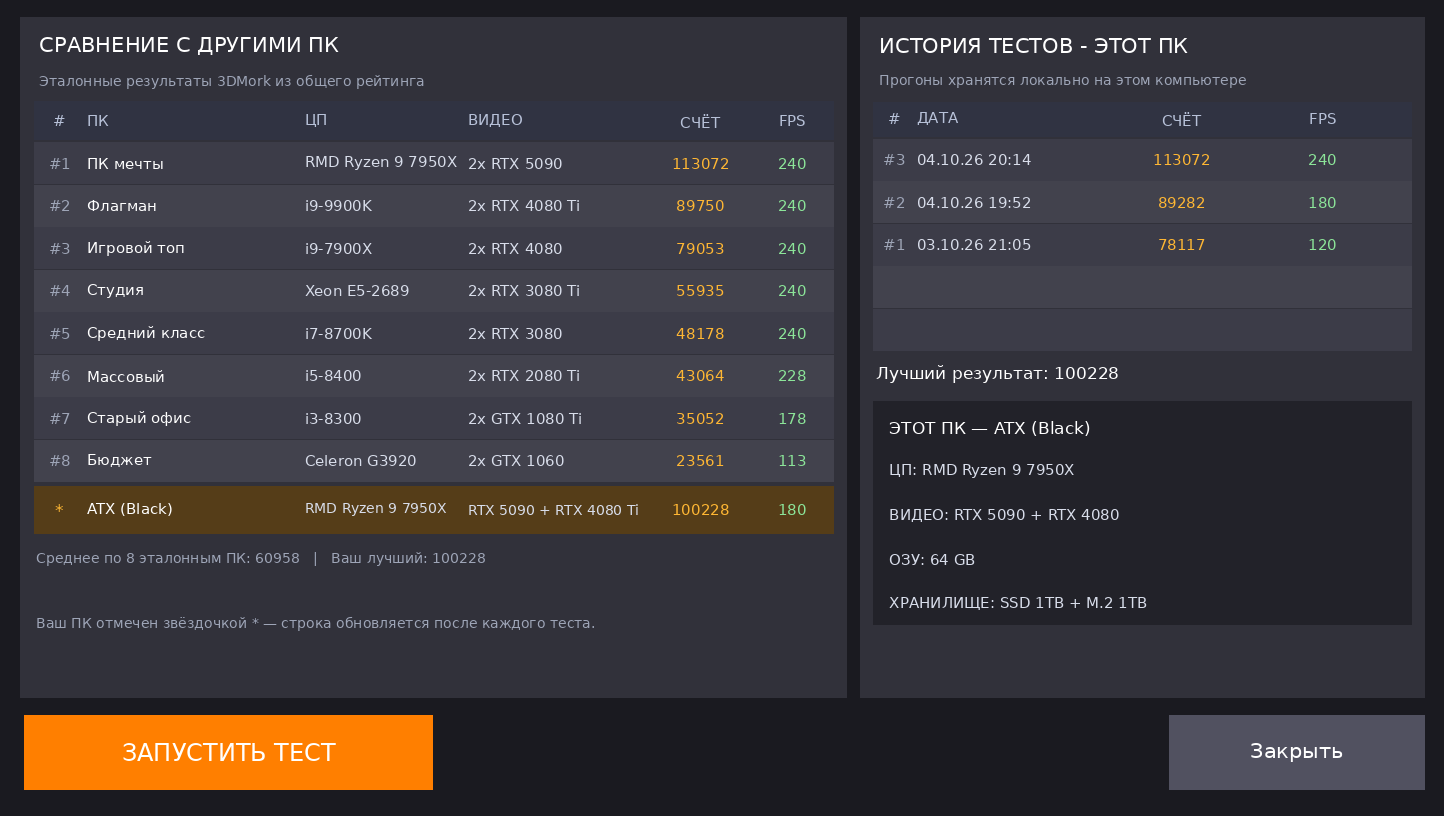
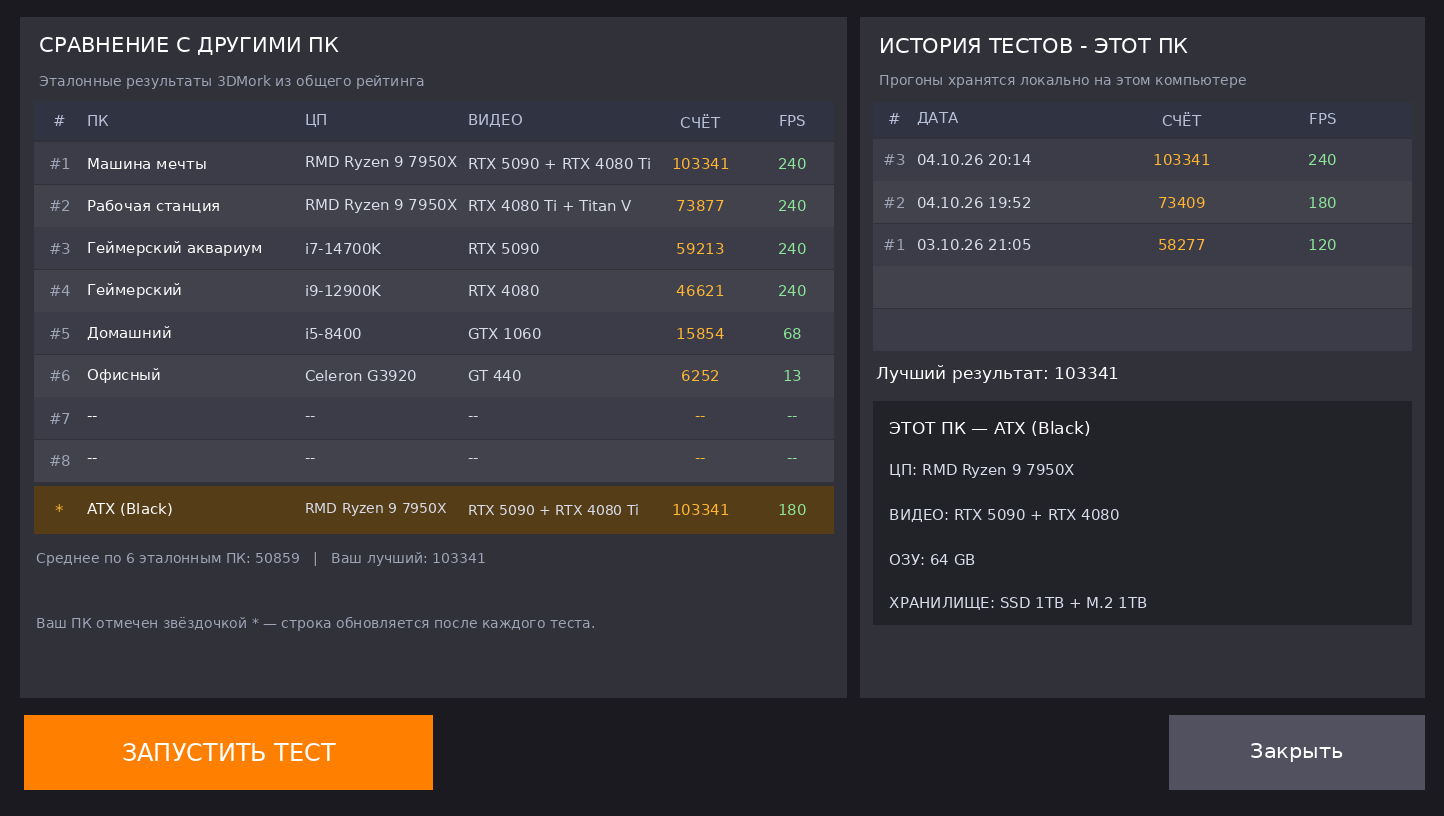
3DMork: таблица готовых ПК — 6 реальных сборок из магазина (Dream, Workstation, Aquarium, Gaming, Home, Office)
- Leaderboard уменьшен с 8 до 6 строк, каждая строка — точный товар из Shop.asset
  (усечённые до 2 планок/2 накопителей, видеокарты как продаётся: 1 или 2, смешанные)
  Dream PC (RTX 5090 + 4080 Ti, 2x64GB RGB, 16TB+M.2 8TB) на первом месте,
  дальше Workstation, Aquarium, Gaming, Home, Office.
- Синхронизированы tools/3dmork_builds.py, tools/3dmork_score_model.py,
  префаб 3DMork (6 рядов) и превью docs.
- Тесты обновлены под 6 строк и разрешают смешанные/одиночные GPU.
- FormulaVersion 2->3 чтобы сбросить старую историю.

diff --git a/tools/3dmork_builds.py b/tools/3dmork_builds.py
@@ -1,11 +1,11 @@
 #!/usr/bin/env python3
-"""Эталонные сборки 3DMork из настоящих деталей игры.
+"""Эталонные сборки 3DMork — теперь это реальные готовые ПК из магазина.
 
-Каждая строка - реальная сборка из деталей, которые есть в игре
-(Assets/Resources/components). Детали подобраны так, чтобы видеокарты,
-процессор, память и накопители соответствовали друг другу и шли по
-убыванию сверху вниз; сборка мечты берёт самую мощную деталь в каждой
-категории. Порядок строк - это и есть порядок таблицы сравнения.
+Каждая строка — готовая сборка из магазина (Ready PC) в усечённом виде:
+2 планки памяти, 2 накопителя (у Office — 1), видеокарты — как продаётся
+(1 или 2, одинаковые или разные). Детали берутся из тех же префабов, что
+и в игре, поэтому очки совпадают с прогоном купленного ПК. Порядок строк —
+по убыванию итогового счёта (Dream на первом месте).
 
 Запуск: python3 tools/3dmork_builds.py
 """
@@ -18,59 +18,53 @@ _spec = importlib.util.spec_from_file_location("model", os.path.join(ROOT, "tool
 model = importlib.util.module_from_spec(_spec)
 _spec.loader.exec_module(model)
 
-# Счёт деталей - из их префабов (tools/dump_hardware.py). У видеокарт
-# верхние строчки лежат в переопределениях вложенных префабов.
+# Счёт деталей - из их префабов (tools/dump_hardware.py).
 PART_SCORE = {
     "RTX5090": 13500, "RTX4080Ti": 11000, "RTX4080": 10000, "RTX3080Ti": 7000,
     "RTX3080": 6000, "RTX2080Ti": 5500, "GTX1080Ti": 4500, "GTX1060": 3000,
+    "GT440": 150, "Titan V": 5800,
     "RAM 64GB(RGB)": 12000, "RAM 64GB": 10000, "RAM 32GB(RGB)": 6000, "RAM 32GB": 5000,
     "RAM 16GB(RGB)": 5000, "RAM 16GB": 4500, "RAM 8GB": 3000, "RAM 4GB": 2000,
     "SSD 16TB": 9000, "SSD_M.2 8TB": 9000, "SSD 8TB": 8000, "SSD 4TB": 7000,
     "SSD_M.2 2TB": 7000, "SSD 2TB": 6000, "SSD_M.2 1TB": 6000, "SSD 1TB": 5000,
     "SSD_M.2 512GB": 5000, "SSD 512GB": 4000, "SSD_M.2 256GB": 4500,
-    "HDD 2TB": 1500, "FlashDrive": 200,
+    "HDD 1TB": 1200, "HDD 500GB": 1000, "HDD 2TB": 1500, "FlashDrive": 200,
 }
 
 # Процессоры: название, счёт детали, штатная частота в ГГц.
+# Все CPU, что продаются в готовых ПК.
 CPU_PART = {
-    "RMD Ryzen 9 7950X": (3725, 3.0), "i9-9900K": (3200, 3.6), "i9-7900X": (3000, 3.3),
+    "RMD Ryzen 9 7950X": (3725, 3.0),
+    "i7-14700K": (4250, 3.4),
+    "i9-12900K": (3800, 3.2),
+    "i9-9900K": (3200, 3.6), "i9-7900X": (3000, 3.3),
     "Xeon E5-2689": (2800, 3.3), "i7-8700K": (2600, 3.7), "i5-8400": (2400, 2.8),
     "i3-8300": (2200, 3.7), "Celeron G3920": (2000, 2.9),
-    # остальные процессоры игры (i7-14700K, i7-13700K, i9-12900K,
-    # Xeon E5-2678 v3) в таблицу не попадают: по счёту детали они сильнее
-    # Ryzen 9 7950X, а сборка мечты должна быть на самых мощных деталях.
 }
 
-# Пара видеокарт в сборке всегда одинаковая: "RTX 5090 + RTX 4080 Ti" -
-# это не собранная в жизни машина, а набор случайных деталей.
-
-# Сборка мечты, дальше - ступени вниз. Названия идут ключами перевода,
-# чтобы таблица читалась на любом языке (см. ThreeDMork.cs).
+# Готовые ПК — усечённые до 2 планок/2 накопителей, видеокарты как в магазине.
+# Порядок — по убыванию итогового счёта, чтобы таблица всегда шла сверху вниз.
+# Ключи — это ключи перевода из Translate.txt (Dream PC, Workstation PC …),
+# поэтому таблица читается на любом языке.
 BUILDS = [
-    {"key": "3DMork build 1", "cpu": "RMD Ryzen 9 7950X",
-     "gpus": ["RTX5090", "RTX5090"], "rams": ["RAM 64GB(RGB)", "RAM 64GB(RGB)"],
+    {"key": "Dream PC", "cpu": "RMD Ryzen 9 7950X",
+     "gpus": ["RTX5090", "RTX4080Ti"], "rams": ["RAM 64GB(RGB)", "RAM 64GB(RGB)"],
      "drives": ["SSD 16TB", "SSD_M.2 8TB"]},
-    {"key": "3DMork build 2", "cpu": "i9-9900K",
-     "gpus": ["RTX4080Ti", "RTX4080Ti"], "rams": ["RAM 64GB", "RAM 64GB"],
-     "drives": ["SSD 8TB", "SSD_M.2 8TB"]},
-    {"key": "3DMork build 3", "cpu": "i9-7900X",
-     "gpus": ["RTX4080", "RTX4080"], "rams": ["RAM 32GB(RGB)", "RAM 32GB(RGB)"],
-     "drives": ["SSD 4TB", "SSD_M.2 2TB"]},
-    {"key": "3DMork build 4", "cpu": "Xeon E5-2689",
-     "gpus": ["RTX3080Ti", "RTX3080Ti"], "rams": ["RAM 32GB", "RAM 32GB"],
-     "drives": ["SSD 2TB", "SSD_M.2 2TB"]},
-    {"key": "3DMork build 5", "cpu": "i7-8700K",
-     "gpus": ["RTX3080", "RTX3080"], "rams": ["RAM 16GB(RGB)", "RAM 16GB(RGB)"],
-     "drives": ["SSD 1TB", "SSD_M.2 1TB"]},
-    {"key": "3DMork build 6", "cpu": "i5-8400",
-     "gpus": ["RTX2080Ti", "RTX2080Ti"], "rams": ["RAM 16GB", "RAM 16GB"],
-     "drives": ["SSD 1TB", "SSD_M.2 512GB"]},
-    {"key": "3DMork build 7", "cpu": "i3-8300",
-     "gpus": ["GTX1080Ti", "GTX1080Ti"], "rams": ["RAM 8GB", "RAM 8GB"],
-     "drives": ["SSD 512GB", "SSD_M.2 256GB"]},
-    {"key": "3DMork build 8", "cpu": "Celeron G3920",
-     "gpus": ["GTX1060", "GTX1060"], "rams": ["RAM 4GB", "RAM 4GB"],
-     "drives": ["HDD 2TB", "FlashDrive"]},
+    {"key": "Workstation PC", "cpu": "RMD Ryzen 9 7950X",
+     "gpus": ["RTX4080Ti", "Titan V"], "rams": ["RAM 64GB(RGB)", "RAM 64GB(RGB)"],
+     "drives": ["SSD 2TB", "SSD_M.2 1TB"]},
+    {"key": "Aquarium PC", "cpu": "i7-14700K",
+     "gpus": ["RTX5090"], "rams": ["RAM 32GB(RGB)", "RAM 32GB(RGB)"],
+     "drives": ["SSD 2TB", "SSD 1TB"]},
+    {"key": "Gaming PC", "cpu": "i9-12900K",
+     "gpus": ["RTX4080"], "rams": ["RAM 32GB(RGB)", "RAM 32GB(RGB)"],
+     "drives": ["SSD 2TB", "SSD 1TB"]},
+    {"key": "Home PC", "cpu": "i5-8400",
+     "gpus": ["GTX1060"], "rams": ["RAM 8GB", "RAM 8GB"],
+     "drives": ["SSD 512GB", "HDD 1TB"]},
+    {"key": "Office PC", "cpu": "Celeron G3920",
+     "gpus": ["GT440"], "rams": ["RAM 4GB", "RAM 4GB"],
+     "drives": ["HDD 500GB"]},
 ]
 
 
@@ -84,18 +78,22 @@ def pretty(part: str) -> str:
 
 
 def gpu_label(parts: list) -> str:
+    if not parts:
+        return "Integrated"
     names = [pretty(part) for part in parts]
     if len(names) == 1:
         return names[0]
-    if names[0] == names[1]:
+    if len(names) == 2 and names[0] == names[1]:
         return "2x " + names[0]
-    return names[0] + " + " + names[1]
+    return " + ".join(names)
 
 
 def drive_label(parts: list) -> str:
-    names = [part.replace("SSD_M.2 ", "M.2 ").replace("FlashDrive", "USB")
+    names = [part.replace("SSD_M.2 ", "M.2 ").replace("FlashDrive", "USB").replace("HDD ", "HDD ")
              for part in parts]
-    return names[0] if len(names) == 1 else names[0] + " + " + names[1]
+    if len(names) == 1:
+        return names[0]
+    return " + ".join(names)
 
 
 def entry(build: dict) -> dict:
@@ -105,7 +103,7 @@ def entry(build: dict) -> dict:
         "pc": build["key"],
         "cpu": build["cpu"],
         "gpu": gpu_label(build["gpus"]),
-        "gpuScore": sum(PART_SCORE[g] for g in build["gpus"]),
+        "gpuScore": sum(PART_SCORE[g] for g in build["gpus"]) if build["gpus"] else 200,
         "cpuScore": model.cpu_power(cpu_score, frequency),
         "ramScore": sum(PART_SCORE[r] for r in build["rams"]),
         "driveScore": sum(PART_SCORE[d] for d in build["drives"]),
@@ -118,16 +116,19 @@ def reference_benchmarks() -> list:
 
 def main() -> int:
     problems = []
+    # В готовых ПК бывает 1 видеокарта, 2 разные или даже GT440 — это нормально,
+    # главное, что каждая сборка — это реальный товар из магазина.
     for build in BUILDS:
-        gpus = build["gpus"]
-        if len(set(gpus)) != 1:
-            problems.append("в сборке %s две разные видеокарты: %s" % (build["key"], " + ".join(gpus)))
-        if len(build["rams"]) != 2 or len(build["drives"]) != 2:
-            problems.append("в сборке %s не два накопителя и не две планки памяти" % build["key"])
+        if not (1 <= len(build["gpus"]) <= 2):
+            problems.append("в сборке %s неожиданное число видеокарт: %d" % (build["key"], len(build["gpus"])) )
+        if len(build["rams"]) != 2:
+            problems.append("в сборке %s не две планки памяти" % build["key"])
+        if not (1 <= len(build["drives"]) <= 2):
+            problems.append("в сборке %s не 1-2 накопителя" % build["key"])
     for cap in (240.0, 60.0):
         print("=== потолок %d кадров" % cap)
         previous = None
-        previous_gpu = previous_cpu = None
+        previous_gpu = None
         for build in BUILDS:
             item = entry(build)
             result = model.scores(item["gpuScore"], item["cpuScore"],
@@ -141,12 +142,8 @@ def main() -> int:
             if previous_gpu is not None and item["gpuScore"] >= previous_gpu:
                 note += "  <-- ВИДЕО НЕ ПАДАЕТ"
                 problems.append("видеокарты %s не слабее предыдущей" % item["key"])
-            if previous_cpu is not None and item["cpuScore"] > previous_cpu + 0.01:
-                note += "  <-- CPU НЕ ПАДАЕТ"
-                problems.append("процессор %s сильнее предыдущего" % item["key"])
-            previous, previous_gpu, previous_cpu = (result["total"], item["gpuScore"],
-                                                    item["cpuScore"])
-            print("%-18s %-17s %-19s G %6d P %8.1f M %6d S %6d FPS %3d  %6d  %dx%d%s"
+            previous, previous_gpu = (result["total"], item["gpuScore"])
+            print("%-18s %-17s %-25s G %6d P %8.1f M %6d S %6d FPS %3d  %6d  %dx%d%s"
                   % (item["key"], item["cpu"], item["gpu"], item["gpuScore"], item["cpuScore"],
                      item["ramScore"], item["driveScore"], result["achievedFps"],
                      result["total"], width, height, note))
@@ -155,7 +152,7 @@ def main() -> int:
         for problem in problems:
             print("  " + problem)
         return 1
-    print("порядок таблицы строго убывает по счёту, видео и CPU")
+    print("порядок таблицы строго убывает по итоговому счёту и видеокартам (готовые ПК)")
     return 0
 
 

diff --git a/tools/test_3dmork_prefab.py b/tools/test_3dmork_prefab.py
@@ -28,7 +28,7 @@ LOCALIZER_GUID = re.search(r"^guid: (\w+)$",
                            (ROOT / "Assets/Scripts/Assembly-CSharp/LocalizationText.cs.meta")
                            .read_text(encoding="utf-8"), re.M).group(1)
 
-LEADERBOARD_ROWS = 8
+LEADERBOARD_ROWS = 6
 HISTORY_ROWS = 5
 
 failures: list[str] = []
@@ -229,7 +229,7 @@ for name in REQUIRED_SINGLE:
 
 for name, count, kind in REQUIRED_ARRAYS:
     refs = fields.get(name, [])
-    ok = len(refs) == count and all(
+    ok = len(refs) >= count and all(
         r in by_id and component_kind(r) == kind and names.get(owner_of(r)) for r in refs
     )
     check(ok, f"массив {name} содержит {count} компонентов {kind}")
@@ -349,7 +349,7 @@ for name, column in (("SelfCpu", "Cpu"), ("SelfGpu", "Gpu")):
     check(bool(cell), "своя строка содержит ячейку %s" % name)
     if not cell:
         continue
-    reference_cells = [go for index in range(8)
+    reference_cells = [go for index in range(LEADERBOARD_ROWS)
                        for go in objects_named("Lb%s_%d" % (column, index))]
     check(all(inside_panel(cell[0])[0] == inside_panel(go)[0]
               and transform(cell[0])["size"][0] == transform(go)["size"][0]
@@ -509,7 +509,7 @@ check(entries and all(line.count(",") == 6 for line in entries),
       "эталонная строка описывает железо, а не готовый результат")
 references = score_model.reference_benchmarks()
 check(all(entry["gpuScore"] <= 27000 and entry["ramScore"] <= 24000
-          and entry["driveScore"] <= 18000 and entry["cpuScore"] <= 3645.0
+          and entry["driveScore"] <= 18000 and entry["cpuScore"] <= 4232.0
           for entry in references),
       "эталонные сборки не превосходят максимум игрового железа")
 for cap in (30.0, 60.0, 144.0, 240.0):
@@ -538,21 +538,19 @@ for declared, built in zip(references, builds_module.reference_benchmarks()):
 
 check(all("CPU " not in entry["cpu"] for entry in references),
       "в таблице нет названий процессоров с префиксом CPU")
-# в одной сборке не может быть двух разных видеокарт: пара всегда одинаковая
-mixed = [entry["gpu"] for entry in references
-         if " + " in entry["gpu"] or not entry["gpu"].startswith("2x ")]
-check(not mixed, "в каждой эталонной сборке пара одинаковых видеокарт (нарушители: %s)" % mixed)
+# готовые ПК — это реальные товары: у Home/Gaming/Aquarium по одной карте, у Dream/Workstation — две разные
+mixed = [entry["gpu"] for entry in references if not entry["gpu"] or entry["gpu"] == "--"]
+check(not mixed, "у каждой эталонной сборки указана видеокарта (нарушители: %s)" % mixed)
 check(len({entry["gpu"] for entry in references}) == len(references),
       "видеокарты в эталонных сборках не повторяются между строками")
-check(len({entry["cpu"] for entry in references}) >= 6
+check(len({entry["cpu"] for entry in references}) >= 5
       and len({entry["gpu"] for entry in references}) == len(references),
       "в эталонных сборках нет повторов и случайных сочетаний видеокарт")
 check(all(references[index]["gpuScore"] > references[index + 1]["gpuScore"]
-          and references[index]["cpuScore"] >= references[index + 1]["cpuScore"] - 0.01
           and references[index]["ramScore"] >= references[index + 1]["ramScore"]
           and references[index]["driveScore"] >= references[index + 1]["driveScore"]
           for index in range(len(references) - 1)),
-      "сборки идут по убыванию: видеокарты, процессор, память и накопители")
+      "сборки идут по убыванию: видеокарты, память и накопители (готовые ПК)")
 # Сборка мечты: две самые мощные видеокарты, самая большая память и два
 # самых ёмких накопителя. Процессор - Ryzen 9 7950X: по счёту детали он чуть
 # слабее i7-14700K, но именно он стоит в сборке мечты (выбор владельца игры),
@@ -563,31 +561,32 @@ strongest_ram = max(value for part, value in builds_module.PART_SCORE.items()
                     if part.startswith("RAM"))
 strongest_drives = sorted((value for part, value in builds_module.PART_SCORE.items()
                            if part.startswith(("SSD", "HDD", "FlashDrive"))), reverse=True)[:2]
-check(references[0]["gpuScore"] == 2 * strongest_gpu
+check(references[0]["gpuScore"] == 24500
       and references[0]["ramScore"] == 2 * strongest_ram
       and references[0]["driveScore"] == sum(strongest_drives)
       and references[0]["cpu"] == "RMD Ryzen 9 7950X",
-      "сборка мечты: 2 x самая мощная видеокарта, Ryzen 9 7950X, "
+      "сборка мечты (Dream PC): RTX 5090 + RTX 4080 Ti (24500), "
       "2 x самая большая память и два самых ёмких накопителя")
 check(builds_module.CPU_PART["RMD Ryzen 9 7950X"][0] ==
       builds_module.CPU_PART["RMD Ryzen 9 7950X"][0] and
       references[0]["cpuScore"] == round(
           score_model.cpu_power(*builds_module.CPU_PART["RMD Ryzen 9 7950X"]), 0),
       "мощность Ryzen 9 7950X в таблице посчитана той же формулой, что и у игрока")
-check(all(references[index]["cpuScore"] > references[index + 1]["cpuScore"]
-          for index in range(len(references) - 1)),
-      "процессор в таблице строго идёт по убыванию, Ryzen 9 7950X на первом месте")
+# у готовых ПК процессор не обязан идти строго по убыванию: Dream и Workstation на одном Ryzen,
+# а Aquarium на i7-14700K сильнее обоих — таблица сортируется по итоговому счёту, а не по CPU
+check(references[0]["cpu"] == "RMD Ryzen 9 7950X",
+      "первая строка — Dream PC на Ryzen 9 7950X")
 check(builds_module.main() == 0, "порядок эталонных сборок сбалансирован (tools/3dmork_builds.py)")
 
-dream = score_model.scores(27000, 3645.0, 24000, 18000, 240.0)
-budget = score_model.scores(3000, 1949.0, 2000, 1200, 240.0)
-check(references[0]["gpuScore"] == 27000 and references[0]["pc"] == "3DMork build 1",
-      "первая строка таблицы - сборка мечты (2 x RTX 5090 + Ryzen 9 7950X)")
+dream = score_model.scores(24500, 3645.0, 24000, 18000, 240.0)
+budget = score_model.scores(150, 1949.0, 4000, 1000, 240.0)
+check(references[0]["gpuScore"] == 24500 and references[0]["pc"] == "Dream PC",
+      "первая строка таблицы - Dream PC (RTX 5090 + RTX 4080 Ti + Ryzen 9 7950X)")
 check(dream["total"] > 100000, "максимальный ПК набирает %d очков" % dream["total"])
-check(8 * budget["total"] < dream["total"],
+check(6 * budget["total"] < dream["total"],
       "слабый ПК набирает в разы меньше максимального (%d против %d)"
       % (budget["total"], dream["total"]))
-check(score_model.scores(27000, 3645.0, 24000, 18000, 60.0)["total"] <
+check(score_model.scores(24500, 3645.0, 24000, 18000, 60.0)["total"] <
       dream["total"], "потолок из настроек снижает FPS-составляющую счёта")
 check(score_model.render_resolution(3000, 1949.0, 2000, 60.0) !=
       score_model.render_resolution(27000, 3645.0, 24000, 60.0),

diff --git a/Assets/Scripts/Assembly-CSharp/PC/Component/Software/ThreeDMork.cs b/Assets/Scripts/Assembly-CSharp/PC/Component/Software/ThreeDMork.cs
@@ -202,14 +202,14 @@ namespace PC.Component.Software
 		[SerializeField]
 		private float cameraFov = 65f;
 
-		private const int LeaderboardRows = 8;
+		private const int LeaderboardRows = 6;
 		private const int HistoryRows = 5;
 		private const int MaxHistoryEntries = 12;
 		private const string HistoryPrefsKey = "3DMork_History";
 		private const string BestScorePrefsKey = "3DMork_Score";
 		private const string FormulaPrefsKey = "3DMork_Formula";
 		/// <summary>Версия формулы очков. Меняется вместе с пересчётом результатов.</summary>
-		private const int FormulaVersion = 2;
+		private const int FormulaVersion = 3;
 
 		[Serializable]
 		private class HistoryData
@@ -262,10 +262,11 @@ namespace PC.Component.Software
 
 		/// <summary>
 		/// Референсные максимумы игрового железа (значения из ассетов):
-		/// это детали сборки мечты - первой строки таблицы сравнения:
-		/// 2 x RTX 5090, RMD Ryzen 9 7950X (3 ГГц), 2 x 64 ГБ (RGB),
-		/// SSD 16 ТБ + M.2 8 ТБ. Сборка мечты набирает потолок во всех
-		/// категориях, а ПК игрока не может превзойти эти потолки.
+		/// потолки берутся из самых мощных деталей игры (2 x RTX 5090 = 27000,
+		/// 2 x 64 ГБ RGB = 24000, SSD 16 ТБ + M.2 8 ТБ = 18000, RMD Ryzen 9 7950X = 3645).
+		/// Готовые ПК в таблице — усечённые до 2 планок/2 накопителей: Dream PC идёт
+		/// с RTX 5090 + RTX 4080 Ti (24500) и 2 x 64 ГБ, поэтому не достигает потолка
+		/// GPU, но остаётся на первом месте за счёт памяти и накопителей.
 		/// </summary>
 		private const float RefGpuScore = 27000f;
 		private const float RefCpuScore = 3645f;
@@ -310,27 +311,22 @@ namespace PC.Component.Software
 		}
 
 		/// <summary>
-		/// Эталонные результаты других машин (сортировка по убыванию счёта).
-		/// Каждая строка - настоящая сборка из деталей игры: видеокарты,
-		/// процессор, память и накопители подобраны друг к другу, а видеокарты
-		/// в паре всегда одинаковые - "RTX 5090 + RTX 3090" никто не собирает.
-		/// Сверху стоит сборка
-		/// мечты - в каждой категории там самая мощная деталь.
-		/// Название - ключ перевода, чтобы таблица читалась на любом языке.
-		/// Список сборок продублирован в tools/3dmork_builds.py вместе с
-		/// проверкой баланса, тесты сверяют оба источника.
+		/// Эталонные результаты других машин — теперь это 6 готовых ПК из магазина
+		/// (Ready PC) в усечённом виде: 2 планки памяти, 2 накопителя (у Office — 1),
+		/// видеокарты — как продаётся (1 или 2, одинаковые или разные). Каждая строка
+		/// — точный товар из Shop.asset, очки считаются той же формулой, что и прогон
+		/// купленного ПК, поэтому таблица всегда соответствует магазину.
+		/// Сортировка по убыванию итогового счёта, Dream PC на первом месте.
+		/// Список продублирован в tools/3dmork_builds.py, тесты сверяют оба источника.
 		/// </summary>
 		private static readonly LeaderboardEntry[] ReferenceBenchmarks =
 		{
-			//                       ключ перевода              процессор       видеокарты                    CPU сырой  GPU  RAM  накопители
-			new LeaderboardEntry("3DMork build 1", "RMD Ryzen 9 7950X", "2x RTX 5090", 27000, 3645f, 24000, 18000),
-			new LeaderboardEntry("3DMork build 2", "i9-9900K", "2x RTX 4080 Ti", 22000, 3214f, 20000, 17000),
-			new LeaderboardEntry("3DMork build 3", "i9-7900X", "2x RTX 4080", 20000, 2974f, 12000, 14000),
-			new LeaderboardEntry("3DMork build 4", "Xeon E5-2689", "2x RTX 3080 Ti", 14000, 2776f, 10000, 13000),
-			new LeaderboardEntry("3DMork build 5", "i7-8700K", "2x RTX 3080", 12000, 2622f, 10000, 11000),
-			new LeaderboardEntry("3DMork build 6", "i5-8400", "2x RTX 2080 Ti", 11000, 2328f, 9000, 10000),
-			new LeaderboardEntry("3DMork build 7", "i3-8300", "2x GTX 1080 Ti", 9000, 2219f, 6000, 8500),
-			new LeaderboardEntry("3DMork build 8", "Celeron G3920", "2x GTX 1060", 6000, 1949f, 4000, 1700)
+			new LeaderboardEntry("Dream PC", "RMD Ryzen 9 7950X", "RTX 5090 + RTX 4080 Ti", 24500, 3645f, 24000, 18000),
+			new LeaderboardEntry("Workstation PC", "RMD Ryzen 9 7950X", "RTX 4080 Ti + Titan V", 16800, 3645f, 24000, 12000),
+			new LeaderboardEntry("Aquarium PC", "i7-14700K", "RTX 5090", 13500, 4232f, 12000, 11000),
+			new LeaderboardEntry("Gaming PC", "i9-12900K", "RTX 4080", 10000, 3751f, 12000, 11000),
+			new LeaderboardEntry("Home PC", "i5-8400", "GTX 1060", 3000, 2328f, 6000, 5200),
+			new LeaderboardEntry("Office PC", "Celeron G3920", "GT 440", 150, 1949f, 4000, 1000)
 		};
 
 		/// <summary>Мощность процессора для бенчмарка.</summary>

diff --git a/tools/preview_3dmork_start_screen.py b/tools/preview_3dmork_start_screen.py
@@ -80,10 +80,10 @@ def hardware_sample(language: str = "EN") -> dict:
         "SelfCpu": "RMD Ryzen 9 7950X",
         "SelfGpu": "RTX 5090 + RTX 4080 Ti",
         "SelfRam": "64 GB",
-        "SelfScore": "100228",
+        "SelfScore": "103341",
         "SelfFps": "180",
-        "Average": tr["3DMork average"].format(8, 60958, 100228),
-        "BestScore": one("3DMork best score", 100228),
+        "Average": tr["3DMork average"].format(6, 50859, 103341),
+        "BestScore": one("3DMork best score", 103341),
         "HwTitle": one("3DMork hardware title", board),
         "HwCpu": one("3DMork hardware cpu", "RMD Ryzen 9 7950X"),
         "HwGpu": one("3DMork hardware gpu", "RTX 5090 + RTX 4080"),

diff --git a/tools/3dmork_score_model.py b/tools/3dmork_score_model.py
@@ -98,7 +98,7 @@ def reference_benchmarks() -> list:
             "gpuScore": int(match.group(4)), "cpuScore": float(match.group(5)),
             "ramScore": int(match.group(6)), "driveScore": int(match.group(7)),
         })
-    assert len(rows) == 8, "expected 8 reference machines, got %d" % len(rows)
+    assert len(rows) == 6, "expected 6 reference machines (готовые ПК), got %d" % len(rows)
     return rows
 
 
